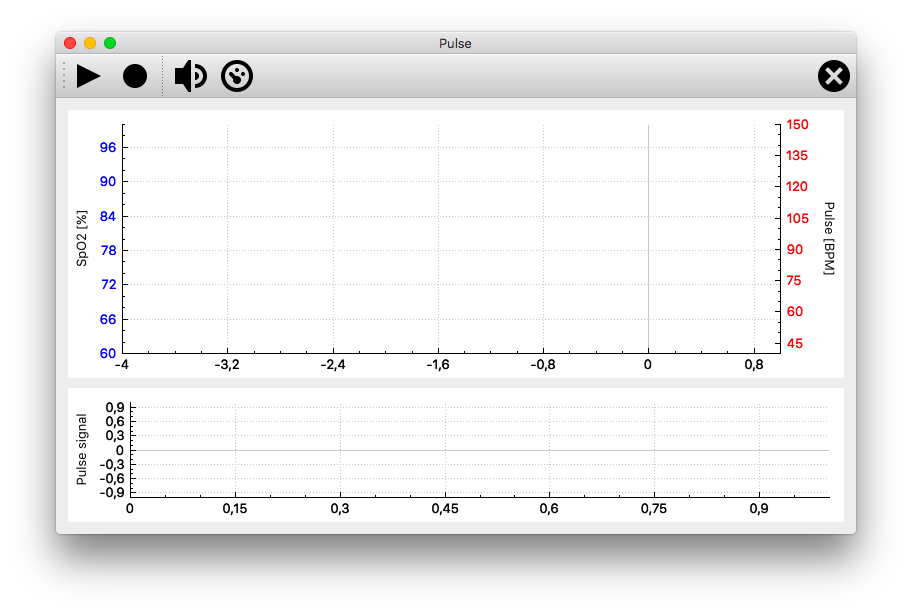
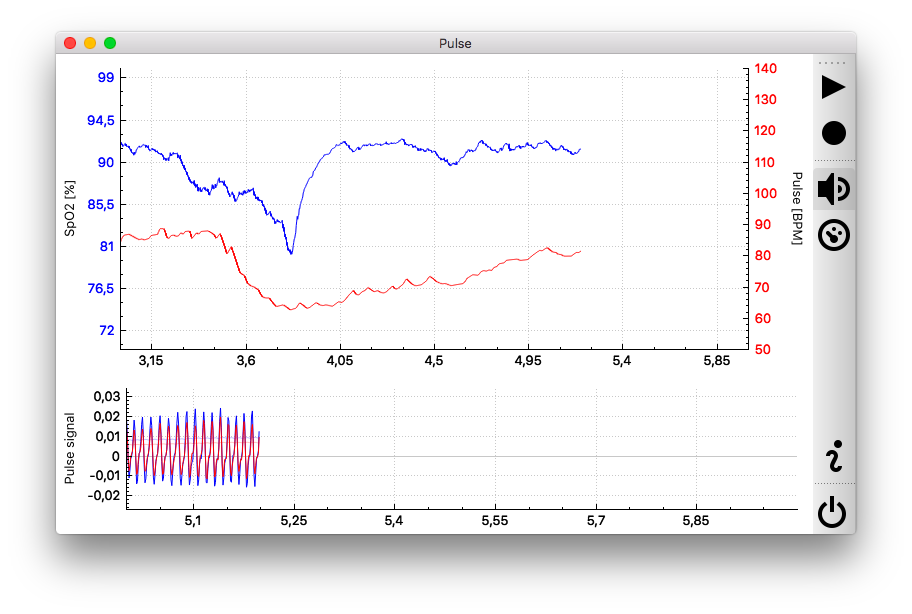
Fixed pulse detection & updated screen shot.

diff --git a/src/pulse.cpp b/src/pulse.cpp
@@ -1,12 +1,13 @@
 #include "pulse.h"
 #include <qDebug>
 #include <cmath>
+#include <QtEndian>
 
 #include "../firmware/proto.h"      /* custom request numbers */
 #include "../firmware/usbconfig.h"  /* device's VID/PID and names */
 
 #define PERIOD   75
-#define THETA    (float(PERIOD)/10e3)
+#define THETA    (float(PERIOD)/5e3)
 #define Fmin     (float(PERIOD*30)/60e3)
 #define Fmax     (float(PERIOD*180)/60e3)
 
@@ -152,9 +153,9 @@ Pulse::readMeasurement(double &base, double &ir, double &red) {
     qDebug() << "Got invalid or incomplete response.";
     return false;
   }
-  base = (0xffff-double(msg.base))/0xffff;
-  ir   = (0xffff-double(msg.upper))/0xffff;
-  red  = (0xffff-double(msg.lower))/0xffff;
+  base = (0xffff-double(qFromLittleEndian(msg.base)))/0xffff;
+  ir   = (0xffff-double(qFromLittleEndian(msg.upper)))/0xffff;
+  red  = (0xffff-double(qFromLittleEndian(msg.lower)))/0xffff;
   return true;
 }
 
@@ -170,8 +171,8 @@ Pulse::updateMeasurement() {
 
     // Detect pulse (last value was positive)
     double lastIrPulse = _irPulse;
-    bool wasAboveA = (_irPulse > _irStd);
-    bool wasAboveB = (_irPulse > -_irStd);
+    bool wasAboveA = (_irPulse > _irStd/2);
+    bool wasAboveB = (_irPulse > -_irStd/2);
 
     _irMean = _irDCFilter.apply(_ir);
     _irPulse = _irACFilter.apply(_ir);
@@ -185,11 +186,11 @@ Pulse::updateMeasurement() {
     if (r < 1)
       _SpO2 = -25*r + 110;
     else
-      _SpO2 = -33.333*r + 113.333;
+      _SpO2 = -35.4167*r + 120.4167;
 
     // If last pulse was positive and current negative -> pulse event
-    bool isBelowA = (_irPulse <= _irStd);
-    bool isBelowB = (_irPulse <= -_irStd);
+    bool isBelowA = (_irPulse <= _irStd/2);
+    bool isBelowB = (_irPulse <= -_irStd/2);
     bool isFalling = ((lastIrPulse - _irPulse)>0);
     _isFalling = (wasAboveA && isBelowA) || (_isFalling && isFalling);
     bool isPulse = _isFalling && wasAboveB && isBelowB;

diff --git a/src/mainwindow.cpp b/src/mainwindow.cpp
@@ -192,6 +192,13 @@ MainWindow::_onStart(bool start) {
     _pulse.stop();
     _start->setText(tr("Start"));
     _start->setIcon(QIcon("://icons/play.png"));
+    // Reset plots
+    _spo2Graph->clearData();
+    _pulseGraph->clearData();
+    _irPulseGraph->clearData();
+    _irStdGraph->clearData();
+    _redPulseGraph->clearData();
+    _redStdGraph->clearData();
   }
 }
 

diff --git a/src/aboutdialog.cc b/src/aboutdialog.cc
@@ -14,6 +14,8 @@ AboutDialog::AboutDialog(QWidget *parent)
   text->setWordWrap(true);
   text->setText(about.readAll());
   text->setMaximumWidth(300);
+  text->setTextInteractionFlags(Qt::TextBrowserInteraction);
+  text->setOpenExternalLinks(true);
 
   QDialogButtonBox *bb = new QDialogButtonBox(QDialogButtonBox::Close);
 
